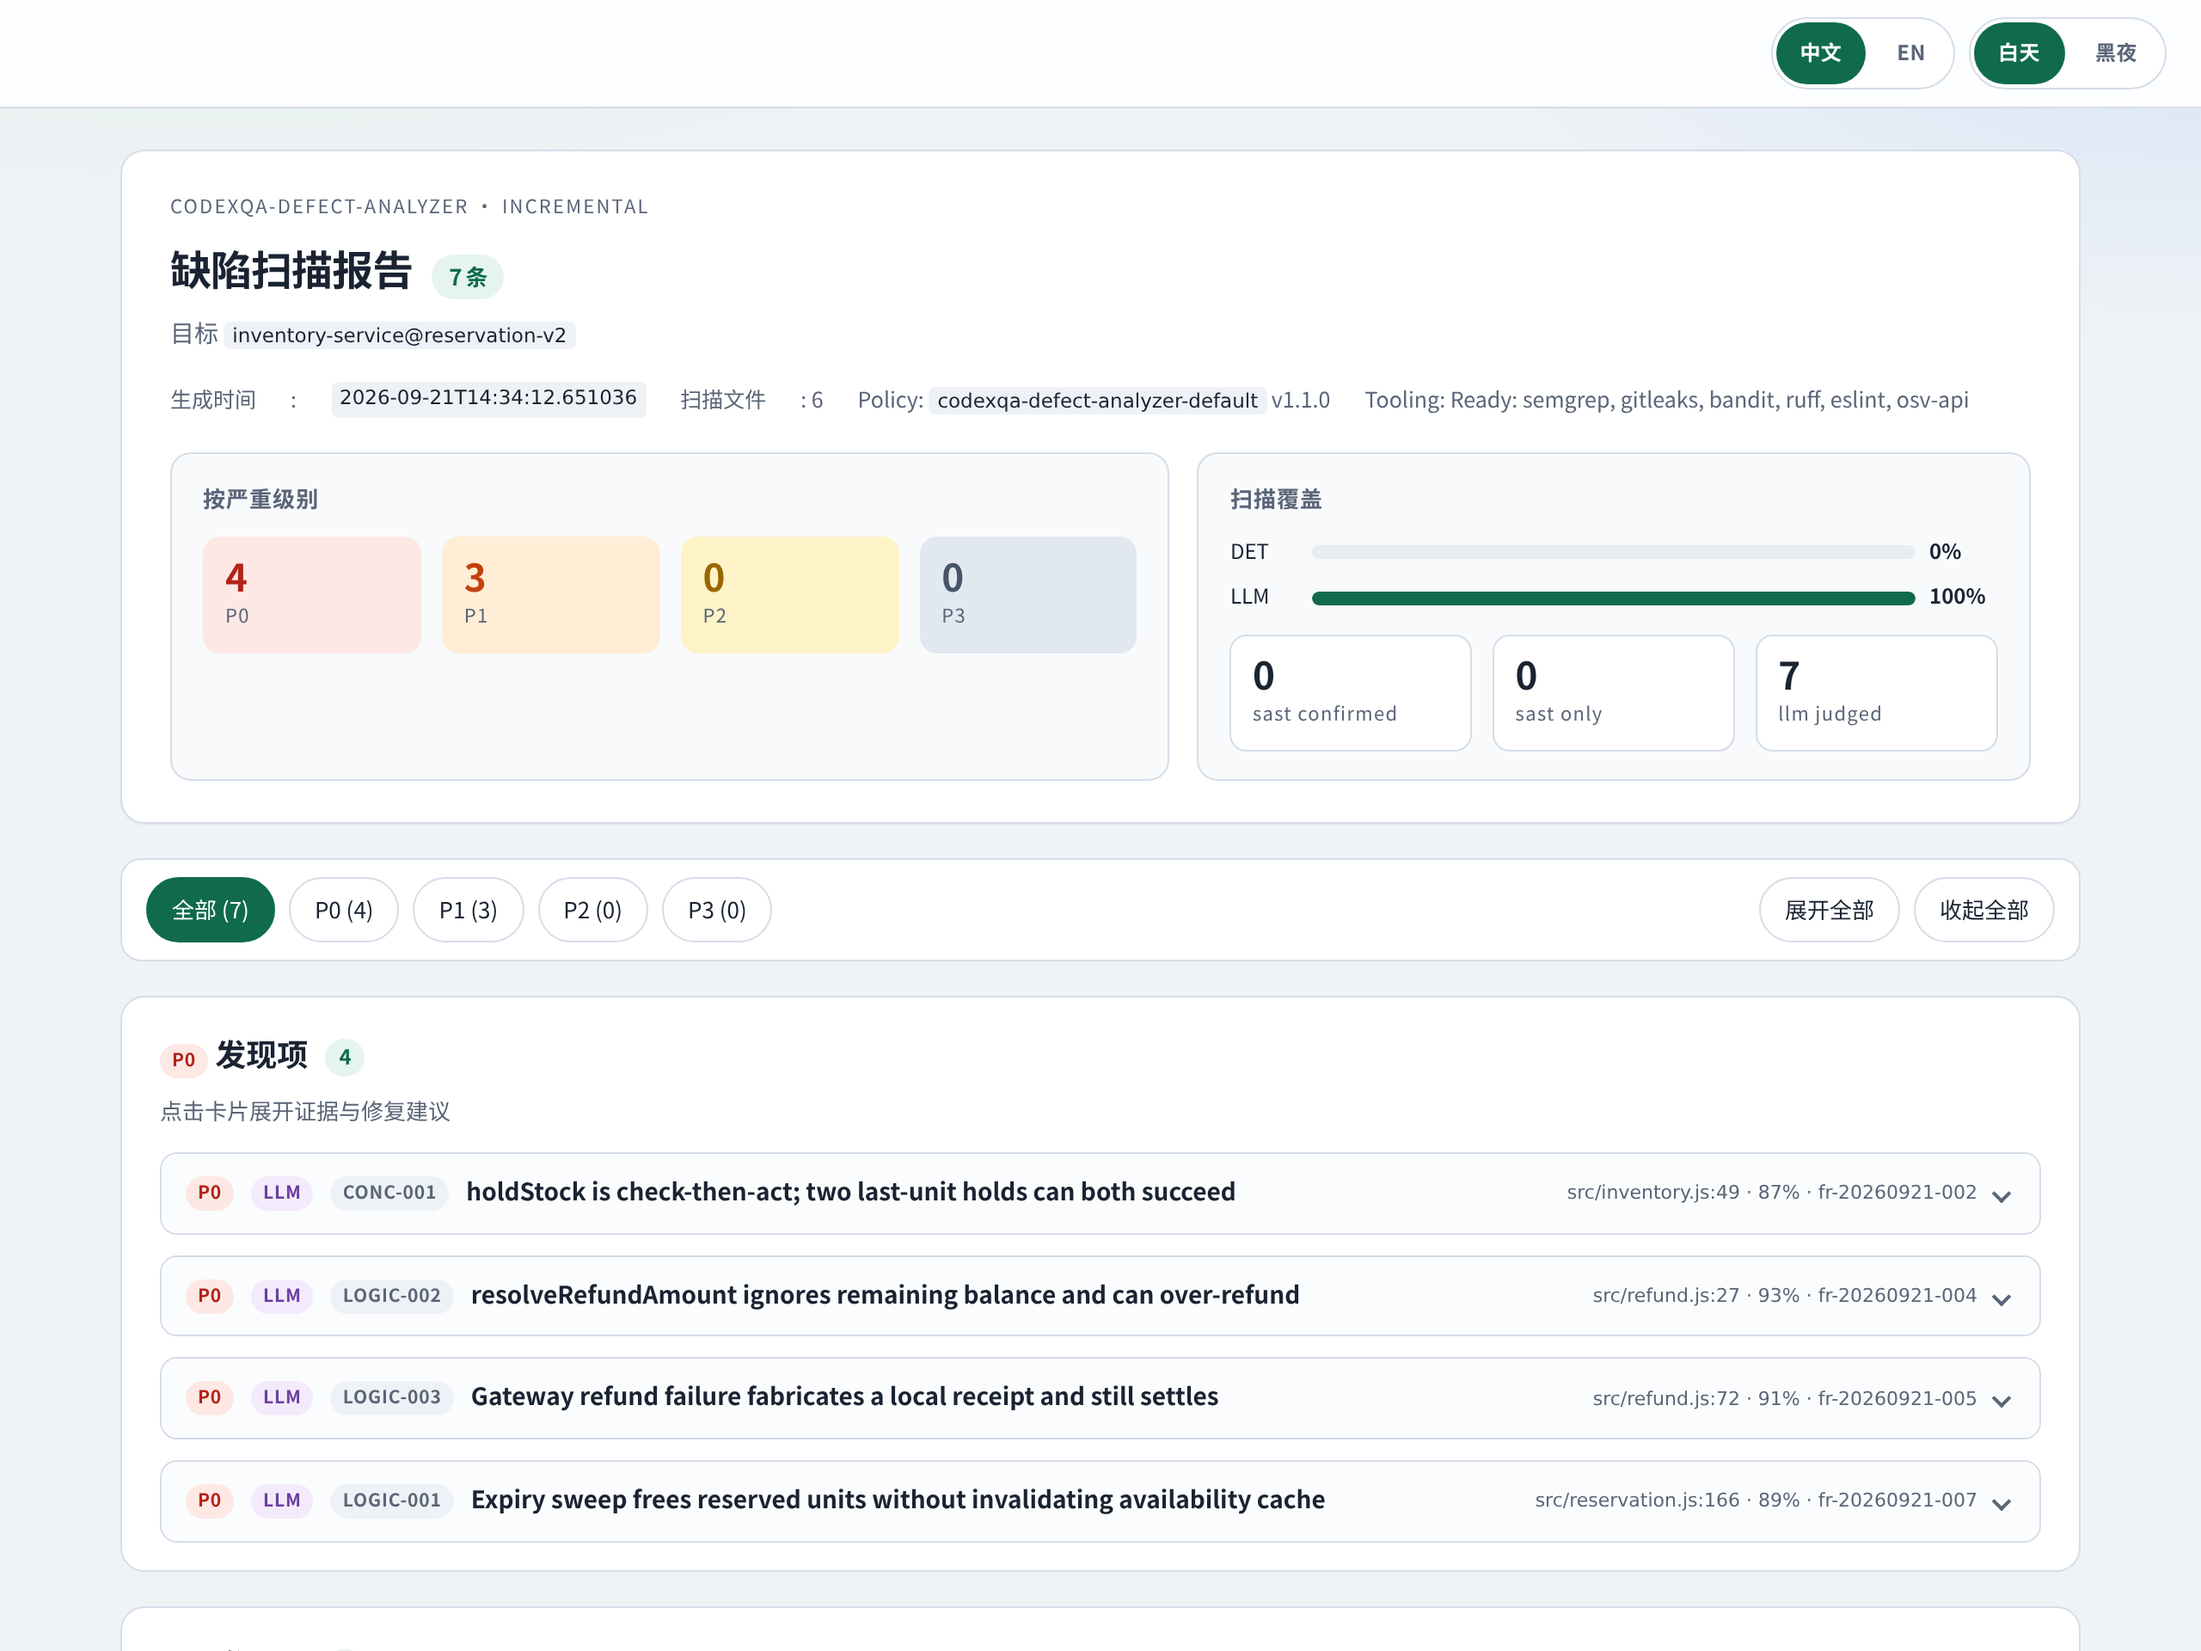
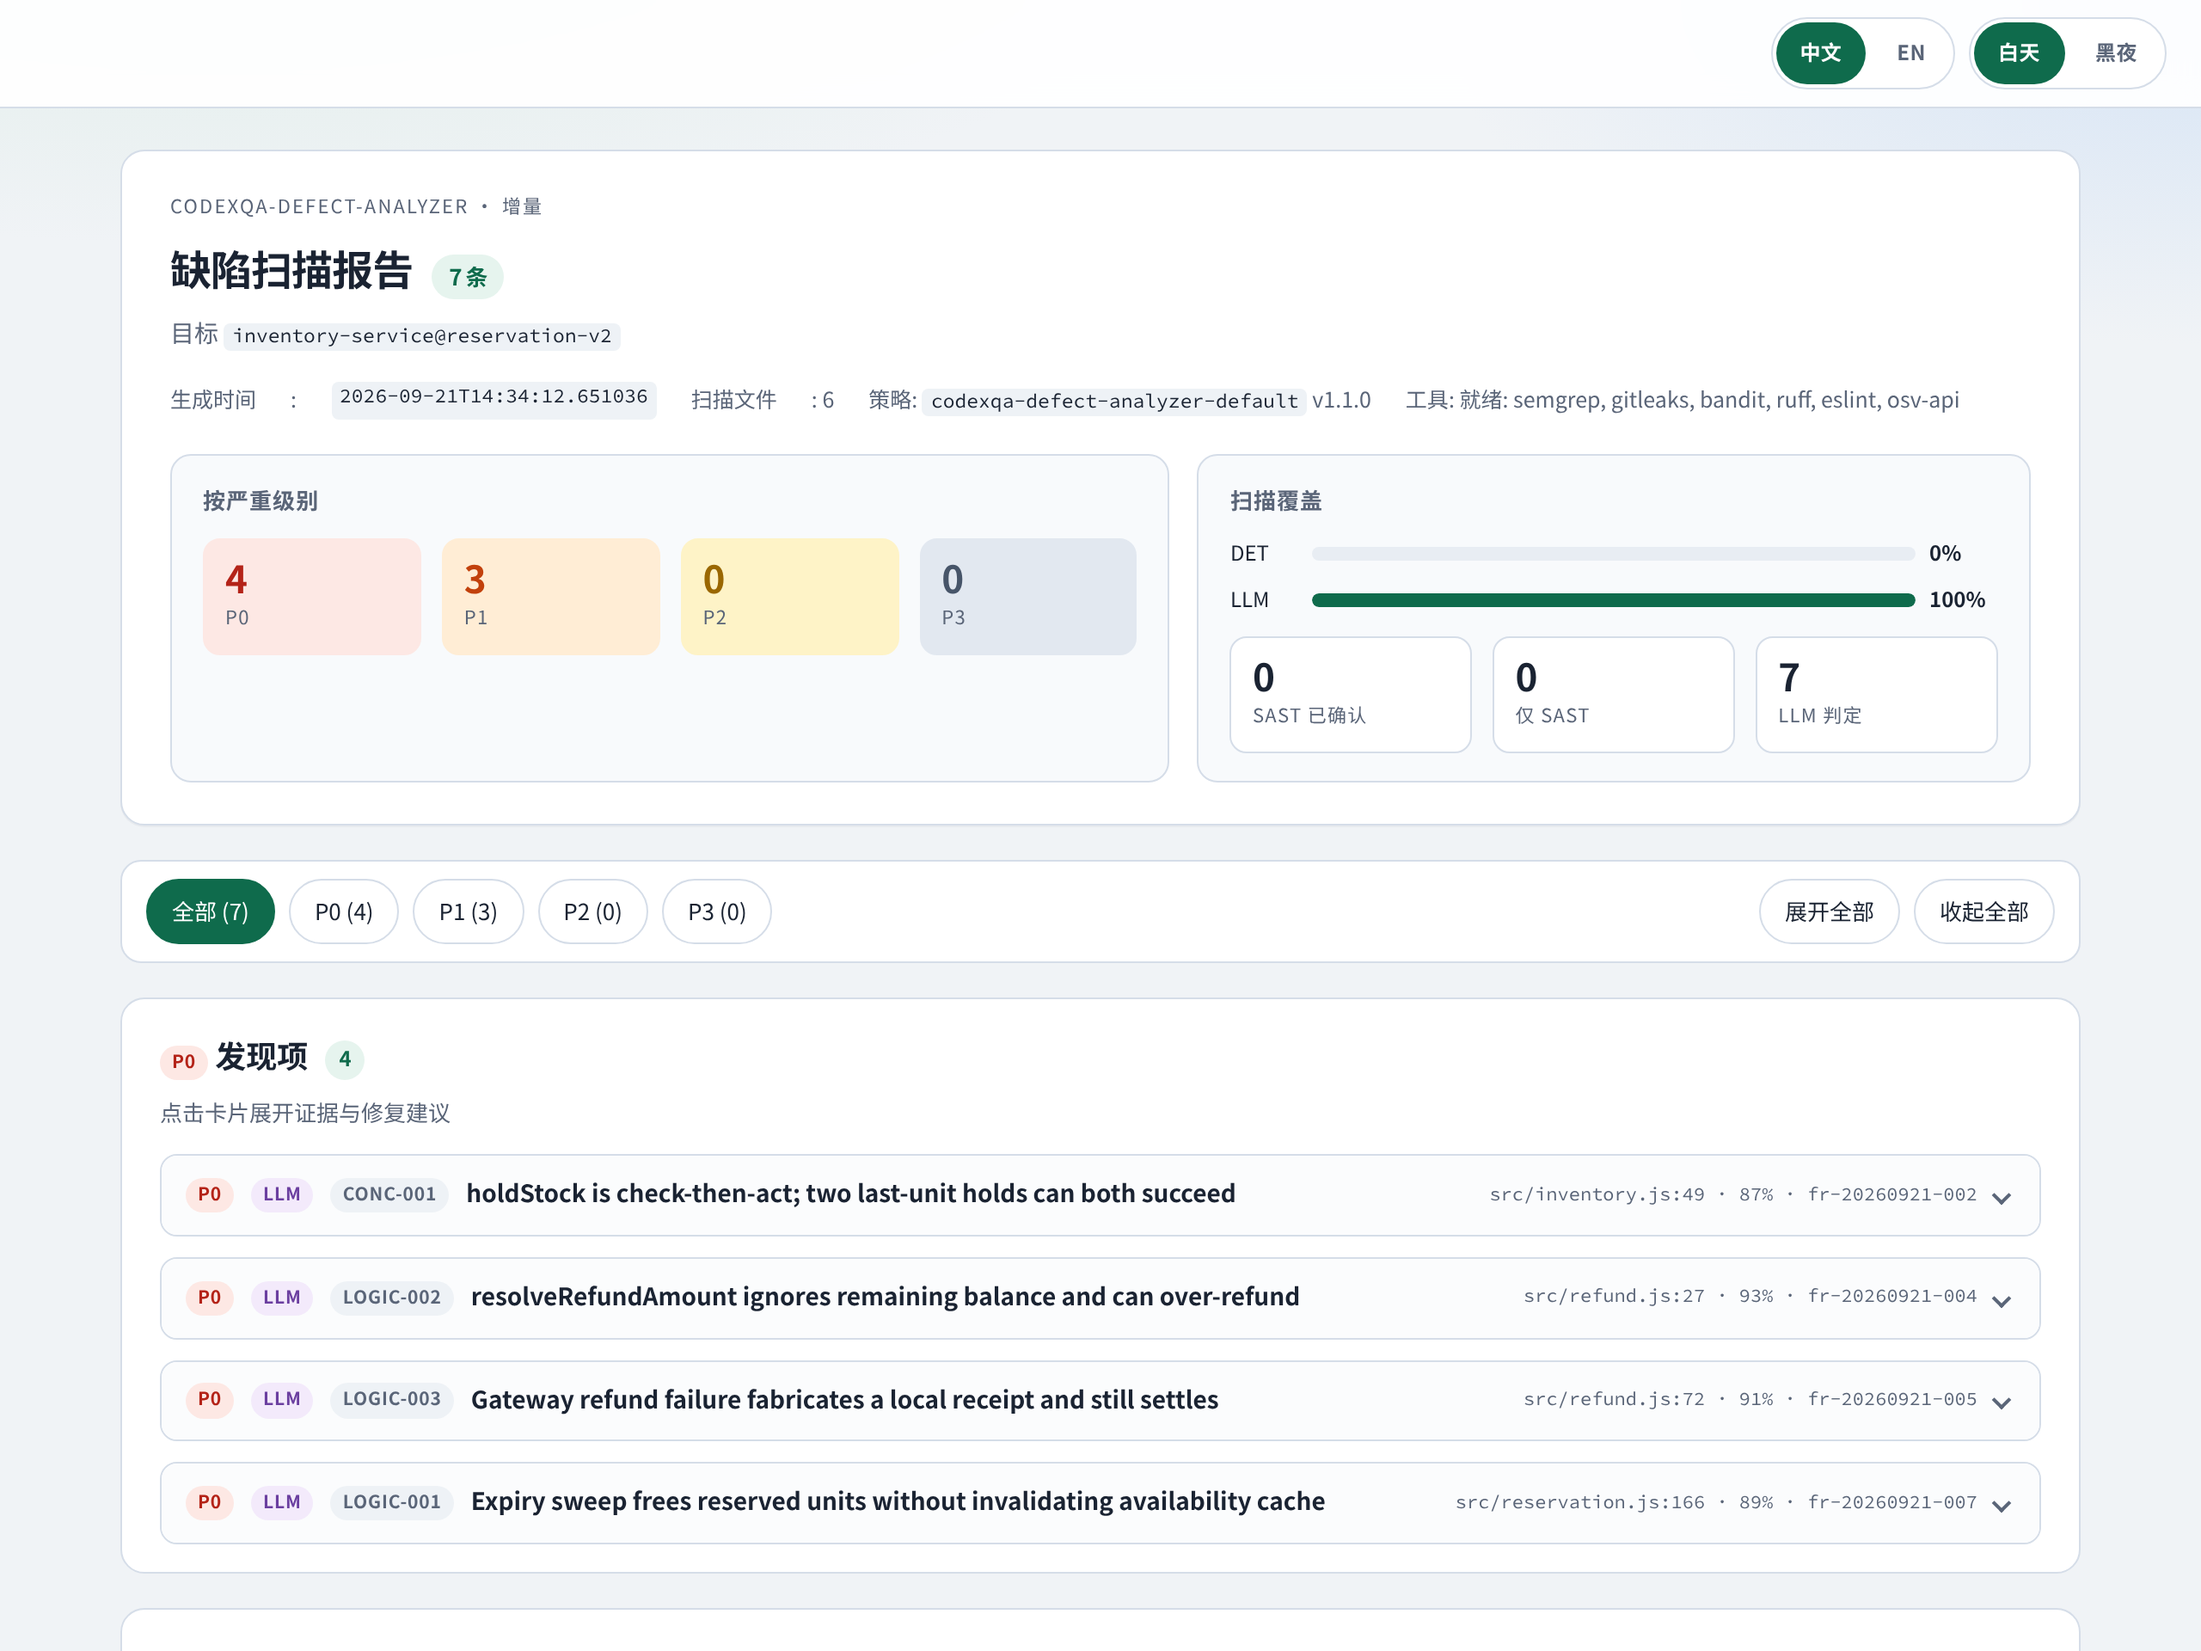
Finish defect-analyzer homepage language switching and show the English shot in the English README.

diff --git a/docs/assets/previews/defect-report.html b/docs/assets/previews/defect-report.html
@@ -3,7 +3,7 @@
 <head>
 <meta charset="utf-8">
 <meta name="viewport" content="width=device-width, initial-scale=1">
-<title data-zh="Incremental Scan Report" data-en="Incremental Scan Report">Incremental Scan Report</title>
+<title data-zh="缺陷扫描报告" data-en="Incremental Scan Report">缺陷扫描报告</title>
 <script>
 (function(){
   try {
@@ -220,7 +220,7 @@ html[data-lang="en"] .unit-zh { display:none; }
 </div>
 <div class="wrap">
   <header class="hero">
-    <p class="kicker">codexqa-defect-analyzer · Incremental</p>
+    <p class="kicker">codexqa-defect-analyzer · <span data-zh="增量" data-en="Incremental">增量</span></p>
     <h1><span data-zh="缺陷扫描报告" data-en="Incremental Scan Report">缺陷扫描报告</span>
       <span class="total-pill">7 <span class="unit-zh">条</span><span class="unit-en"> findings</span></span>
     </h1>
@@ -228,8 +228,8 @@ html[data-lang="en"] .unit-zh { display:none; }
     <div class="meta-row">
       <span data-zh="生成时间" data-en="Generated">生成时间</span>: <code>2026-09-21T14:34:12.651036</code>
       <span data-zh="扫描文件" data-en="Files scanned">扫描文件</span>: 6
-      <span>Policy: <code>codexqa-defect-analyzer-default</code> v1.1.0</span>
-      <span>Tooling: Ready: semgrep, gitleaks, bandit, ruff, eslint, osv-api</span>
+      <span><span data-zh="策略" data-en="Policy">策略</span>: <code>codexqa-defect-analyzer-default</code> v1.1.0</span>
+      <span><span data-zh="工具" data-en="Tooling">工具</span>: <span data-zh="就绪" data-en="Ready">就绪</span>: semgrep, gitleaks, bandit, ruff, eslint, osv-api</span>
     </div>
     <div class="stats">
       <div class="card">
@@ -240,7 +240,7 @@ html[data-lang="en"] .unit-zh { display:none; }
         <h2 data-zh="扫描覆盖" data-en="Scan coverage">扫描覆盖</h2>
         <div class="bar-row"><span>DET</span><div class="bar"><i style="width:0.0%"></i></div><b>0%</b></div>
         <div class="bar-row"><span>LLM</span><div class="bar"><i style="width:100.0%"></i></div><b>100%</b></div>
-        <div class="chip-row sources"><div class='stat-chip'><span class='n'>0</span><span class='l'>sast confirmed</span></div><div class='stat-chip'><span class='n'>0</span><span class='l'>sast only</span></div><div class='stat-chip'><span class='n'>7</span><span class='l'>llm judged</span></div></div>
+        <div class="chip-row sources"><div class='stat-chip'><span class='n'>0</span><span class='l'><span data-zh="SAST 已确认" data-en="sast confirmed">SAST 已确认</span></span></div><div class='stat-chip'><span class='n'>0</span><span class='l'><span data-zh="仅 SAST" data-en="sast only">仅 SAST</span></span></div><div class='stat-chip'><span class='n'>7</span><span class='l'><span data-zh="LLM 判定" data-en="llm judged">LLM 判定</span></span></div></div>
       </div>
     </div>
   </header>
@@ -248,7 +248,7 @@ html[data-lang="en"] .unit-zh { display:none; }
   <section class="panel">
     <div class="panel-head">
       <h2 data-zh="规则命中" data-en="Rule hits">规则命中</h2>
-      <p class="desc">Active rules: 27</p>
+      <p class="desc"><span data-zh="启用规则" data-en="Active rules">启用规则</span>: 27</p>
     </div>
     <div class='rule-grid'><div class='bar-row'><span>CONC-001</span><div class='bar'><i style='width:100%'></i></div><b>1</b></div><div class='bar-row'><span>LOGIC-002</span><div class='bar'><i style='width:100%'></i></div><b>1</b></div><div class='bar-row'><span>LOGIC-003</span><div class='bar'><i style='width:100%'></i></div><b>1</b></div><div class='bar-row'><span>LOGIC-001</span><div class='bar'><i style='width:100%'></i></div><b>1</b></div><div class='bar-row'><span>RES-001</span><div class='bar'><i style='width:100%'></i></div><b>1</b></div><div class='bar-row'><span>LOGIC-004</span><div class='bar'><i style='width:100%'></i></div><b>1</b></div><div class='bar-row'><span>LOGIC-005</span><div class='bar'><i style='width:100%'></i></div><b>1</b></div></div>
   </section>

diff --git a/skills/codexqa-defect-analyzer/scripts/merge_report.py b/skills/codexqa-defect-analyzer/scripts/merge_report.py
@@ -265,6 +265,25 @@ def _source_label(source):
     return {'sast_confirmed': 'SAST ✓', 'sast_only': 'SAST', 'llm_judged': 'LLM'}.get(source, source or '—')
 
 
+def _bi(zh, en):
+    if zh == en:
+        return _h(zh)
+    return '<span data-zh="%s" data-en="%s">%s</span>' % (_h(zh), _h(en), _h(zh))
+
+
+_SCAN_ZH = {'incremental': '增量', 'full': '全量', 'adhoc': '临时'}
+_SOURCE_COUNT_ZH = {
+    'sast_confirmed': 'SAST 已确认',
+    'sast_only': '仅 SAST',
+    'llm_judged': 'LLM 判定',
+}
+_SOURCE_COUNT_EN = {
+    'sast_confirmed': 'sast confirmed',
+    'sast_only': 'sast only',
+    'llm_judged': 'llm judged',
+}
+
+
 def _source_class(source):
     return {'sast_confirmed': 'confirmed', 'sast_only': 'sast', 'llm_judged': 'llm'}.get(
         source or '', 'llm')
@@ -371,8 +390,6 @@ def render_html_report(report):
     by_rule = cov.get('by_rule_id') or {}
     ts = report.get('tooling_status') or {}
     pp = report.get('policy_pack') or {}
-    scan_type = report.get('scan_type', 'scan').capitalize()
-    title = '%s Scan Report' % scan_type
     total = summary.get('total') or sum(sev_counts.get(k, 0) for k in ('P0', 'P1', 'P2', 'P3'))
 
     chips = ''.join(
@@ -391,7 +408,7 @@ def render_html_report(report):
 
     source_rows = ''.join(
         "<div class='stat-chip'><span class='n'>%d</span><span class='l'>%s</span></div>"
-        % (by_source.get(k, 0), _h(k.replace('_', ' ')))
+        % (by_source.get(k, 0), _bi(_SOURCE_COUNT_ZH[k], _SOURCE_COUNT_EN[k]))
         for k in ('sast_confirmed', 'sast_only', 'llm_judged')
     )
 
@@ -438,11 +455,19 @@ def render_html_report(report):
         rows = ''.join("<tr><td><code>%s</code></td><td>%s</td></tr>"
                        % (_h(h['path']), _h('%.1f' % h.get('hot_score', 0)))
                        for h in report['heat_map'][:20])
-        extra_sections.append('<section class="panel"><div class="panel-head"><h2 data-zh="热点文件" data-en="Hot files">热点文件</h2></div><table class="steps"><thead><tr><th data-zh="路径" data-en="Path">路径</th><th>score</th></tr></thead><tbody>%s</tbody></table></section>' % rows)
+        extra_sections.append('<section class="panel"><div class="panel-head"><h2 data-zh="热点文件" data-en="Hot files">热点文件</h2></div><table class="steps"><thead><tr><th data-zh="路径" data-en="Path">路径</th><th>%s</th></tr></thead><tbody>%s</tbody></table></section>' % (_bi('热度', 'score'), rows))
 
     det = cov.get('deterministic_share', 0) or 0
     llm = cov.get('llm_share', 0) or 0
-    tooling = 'Degraded' if ts.get('degraded') else 'Ready: %s' % _h(', '.join(ts.get('ready') or []))
+    scan_key = (report.get('scan_type') or 'scan').lower()
+    scan_en = scan_key.capitalize()
+    scan_zh = _SCAN_ZH.get(scan_key, scan_en)
+    title_en = '%s Scan Report' % scan_en
+    title_zh = '缺陷扫描报告'
+    if ts.get('degraded'):
+        tooling = _bi('降级', 'Degraded')
+    else:
+        tooling = '%s: %s' % (_bi('就绪', 'Ready'), _h(', '.join(ts.get('ready') or [])))
     css = chrome_css()
     js = chrome_js()
     return f'''<!DOCTYPE html>
@@ -450,7 +475,7 @@ def render_html_report(report):
 <head>
 <meta charset="utf-8">
 <meta name="viewport" content="width=device-width, initial-scale=1">
-<title data-zh="{_h(title)}" data-en="{_h(title)}">{_h(title)}</title>
+<title data-zh="{_h(title_zh)}" data-en="{_h(title_en)}">{_h(title_zh)}</title>
 {boot_script()}
 <style>
 {css}
@@ -460,16 +485,16 @@ def render_html_report(report):
 {prefs_html()}
 <div class="wrap">
   <header class="hero">
-    <p class="kicker">codexqa-defect-analyzer · {_h(scan_type)}</p>
-    <h1><span data-zh="缺陷扫描报告" data-en="{_h(title)}">缺陷扫描报告</span>
+    <p class="kicker">codexqa-defect-analyzer · {_bi(scan_zh, scan_en)}</p>
+    <h1><span data-zh="{_h(title_zh)}" data-en="{_h(title_en)}">{_h(title_zh)}</span>
       <span class="total-pill">{total} <span class="unit-zh">条</span><span class="unit-en"> findings</span></span>
     </h1>
     <p class="sub"><span data-zh="目标" data-en="Target">目标</span> <code>{_h(report.get('target', '—'))}</code></p>
     <div class="meta-row">
       <span data-zh="生成时间" data-en="Generated">生成时间</span>: <code>{_h(report.get('generated_at', '—'))}</code>
       <span data-zh="扫描文件" data-en="Files scanned">扫描文件</span>: {_h(summary.get('files_scanned', '—'))}
-      <span>Policy: <code>{_h(pp.get('pack_id', '—'))}</code> v{_h(pp.get('version', '—'))}</span>
-      <span>Tooling: {tooling}</span>
+      <span>{_bi('策略', 'Policy')}: <code>{_h(pp.get('pack_id', '—'))}</code> v{_h(pp.get('version', '—'))}</span>
+      <span>{_bi('工具', 'Tooling')}: {tooling}</span>
     </div>
     <div class="stats">
       <div class="card">
@@ -488,7 +513,7 @@ def render_html_report(report):
   <section class="panel">
     <div class="panel-head">
       <h2 data-zh="规则命中" data-en="Rule hits">规则命中</h2>
-      <p class="desc">Active rules: {_h(pp.get('rule_count_active', '—'))}</p>
+      <p class="desc">{_bi('启用规则', 'Active rules')}: {_h(pp.get('rule_count_active', '—'))}</p>
     </div>
     {rule_rows}
   </section>

diff --git a/docs/assets/previews/README.md b/docs/assets/previews/README.md
@@ -4,7 +4,7 @@ Sample HTML used as screenshots in the repository README. Most are **illustratio
 
 | File | Skill | How it was produced |
 |---|---|---|
-| `defect-report.html` / `.png` | `codexqa-defect-analyzer` | `merge_report.render_html_report` (testcase-generator chrome; canned inventory-service findings) |
+| `defect-report.html` / `.png` | `codexqa-defect-analyzer` | `merge_report.render_html_report` (testcase-generator chrome; canned inventory-service findings). `.png` is the Chinese homepage. `defect-report-en.png` is the same page with EN selected; the root English README uses that shot |
 | `review-report.html` / `.png` | `codexqa-code-reviewer` | `scripts/render-review-html.sh` on `evals/fixtures/conclusion/with-llm-judgment.json` |
 | `code-wiki.html` / `.png` | `codexqa-code-wiki` | `render-code-wiki.mjs`: the skill's own renderer on its test fixture (a real `wiki inputs` export of this repo plus written `notes.json`); PNG is a **4:3** crop (`1280×960`), Chinese homepage |
 | `code-wiki-en.html` / `.png` | `codexqa-code-wiki` | Same export and renderer with `notes.en.json` (`"lang": "en"`). PNG is the English homepage at the same **4:3** crop. The root English README uses this shot |

diff --git a/README.md b/README.md
@@ -53,7 +53,7 @@ GitHub is the skill source; product site: [openqa.cn](https://openqa.cn/?utm_sou
 <p><strong><a href="skills/codexqa-defect-analyzer/README.md">codexqa-defect-analyzer</a></strong></p>
 <p><strong>Verifies</strong> — whether the code you just wrote or merged hides bugs or security issues a quick glance would miss.</p>
 <p><strong>Does</strong> — merges SAST / lint / secrets with one Agent semantic pass into a P0–P3 HTML report: location, evidence, suggestion.</p>
-<p align="center"><a href="https://htmlpreview.github.io/?https://github.com/openqa-cn/codexqa/blob/main/docs/assets/previews/defect-report.html"><img src="docs/assets/previews/defect-report.png" alt="codexqa-defect-analyzer HTML scan report"></a></p>
+<p align="center"><a href="https://htmlpreview.github.io/?https://github.com/openqa-cn/codexqa/blob/main/docs/assets/previews/defect-report.html"><img src="docs/assets/previews/defect-report-en.png" alt="codexqa-defect-analyzer HTML scan report"></a></p>
 </td>
 <td width="50%" valign="top">
 <p><strong><a href="skills/codexqa-code-reviewer/README.md">codexqa-code-reviewer</a></strong></p>
